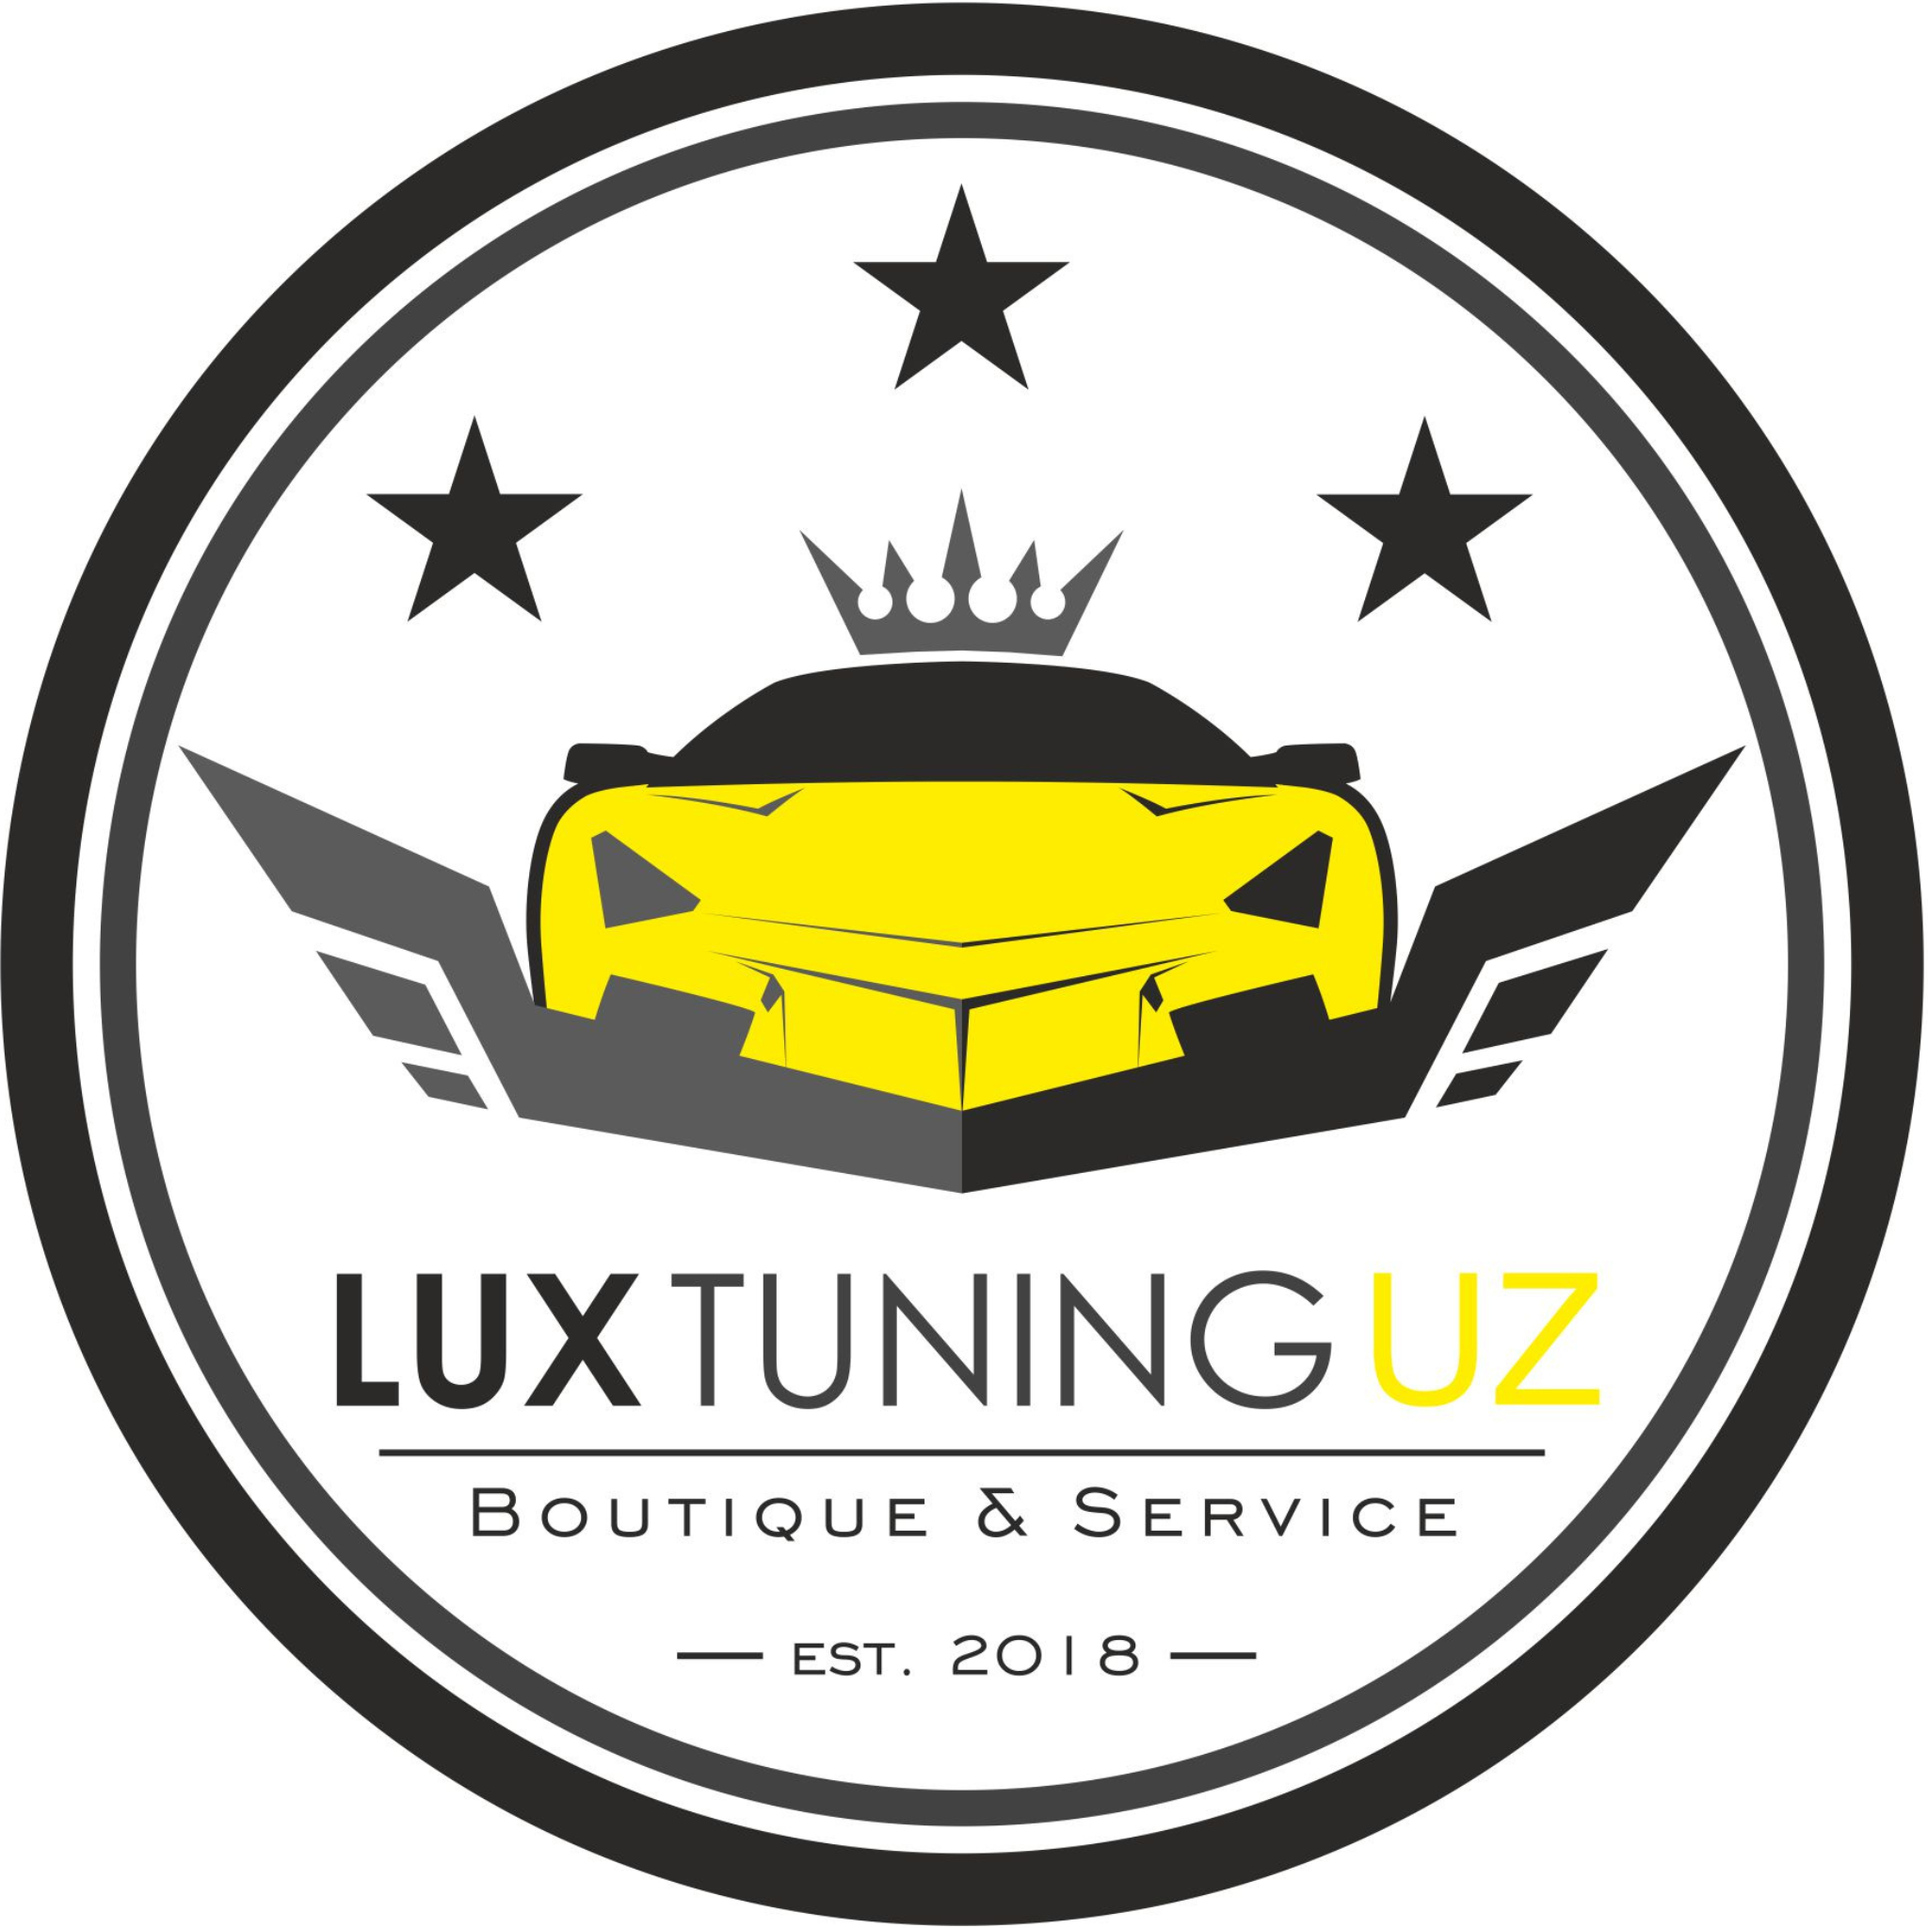
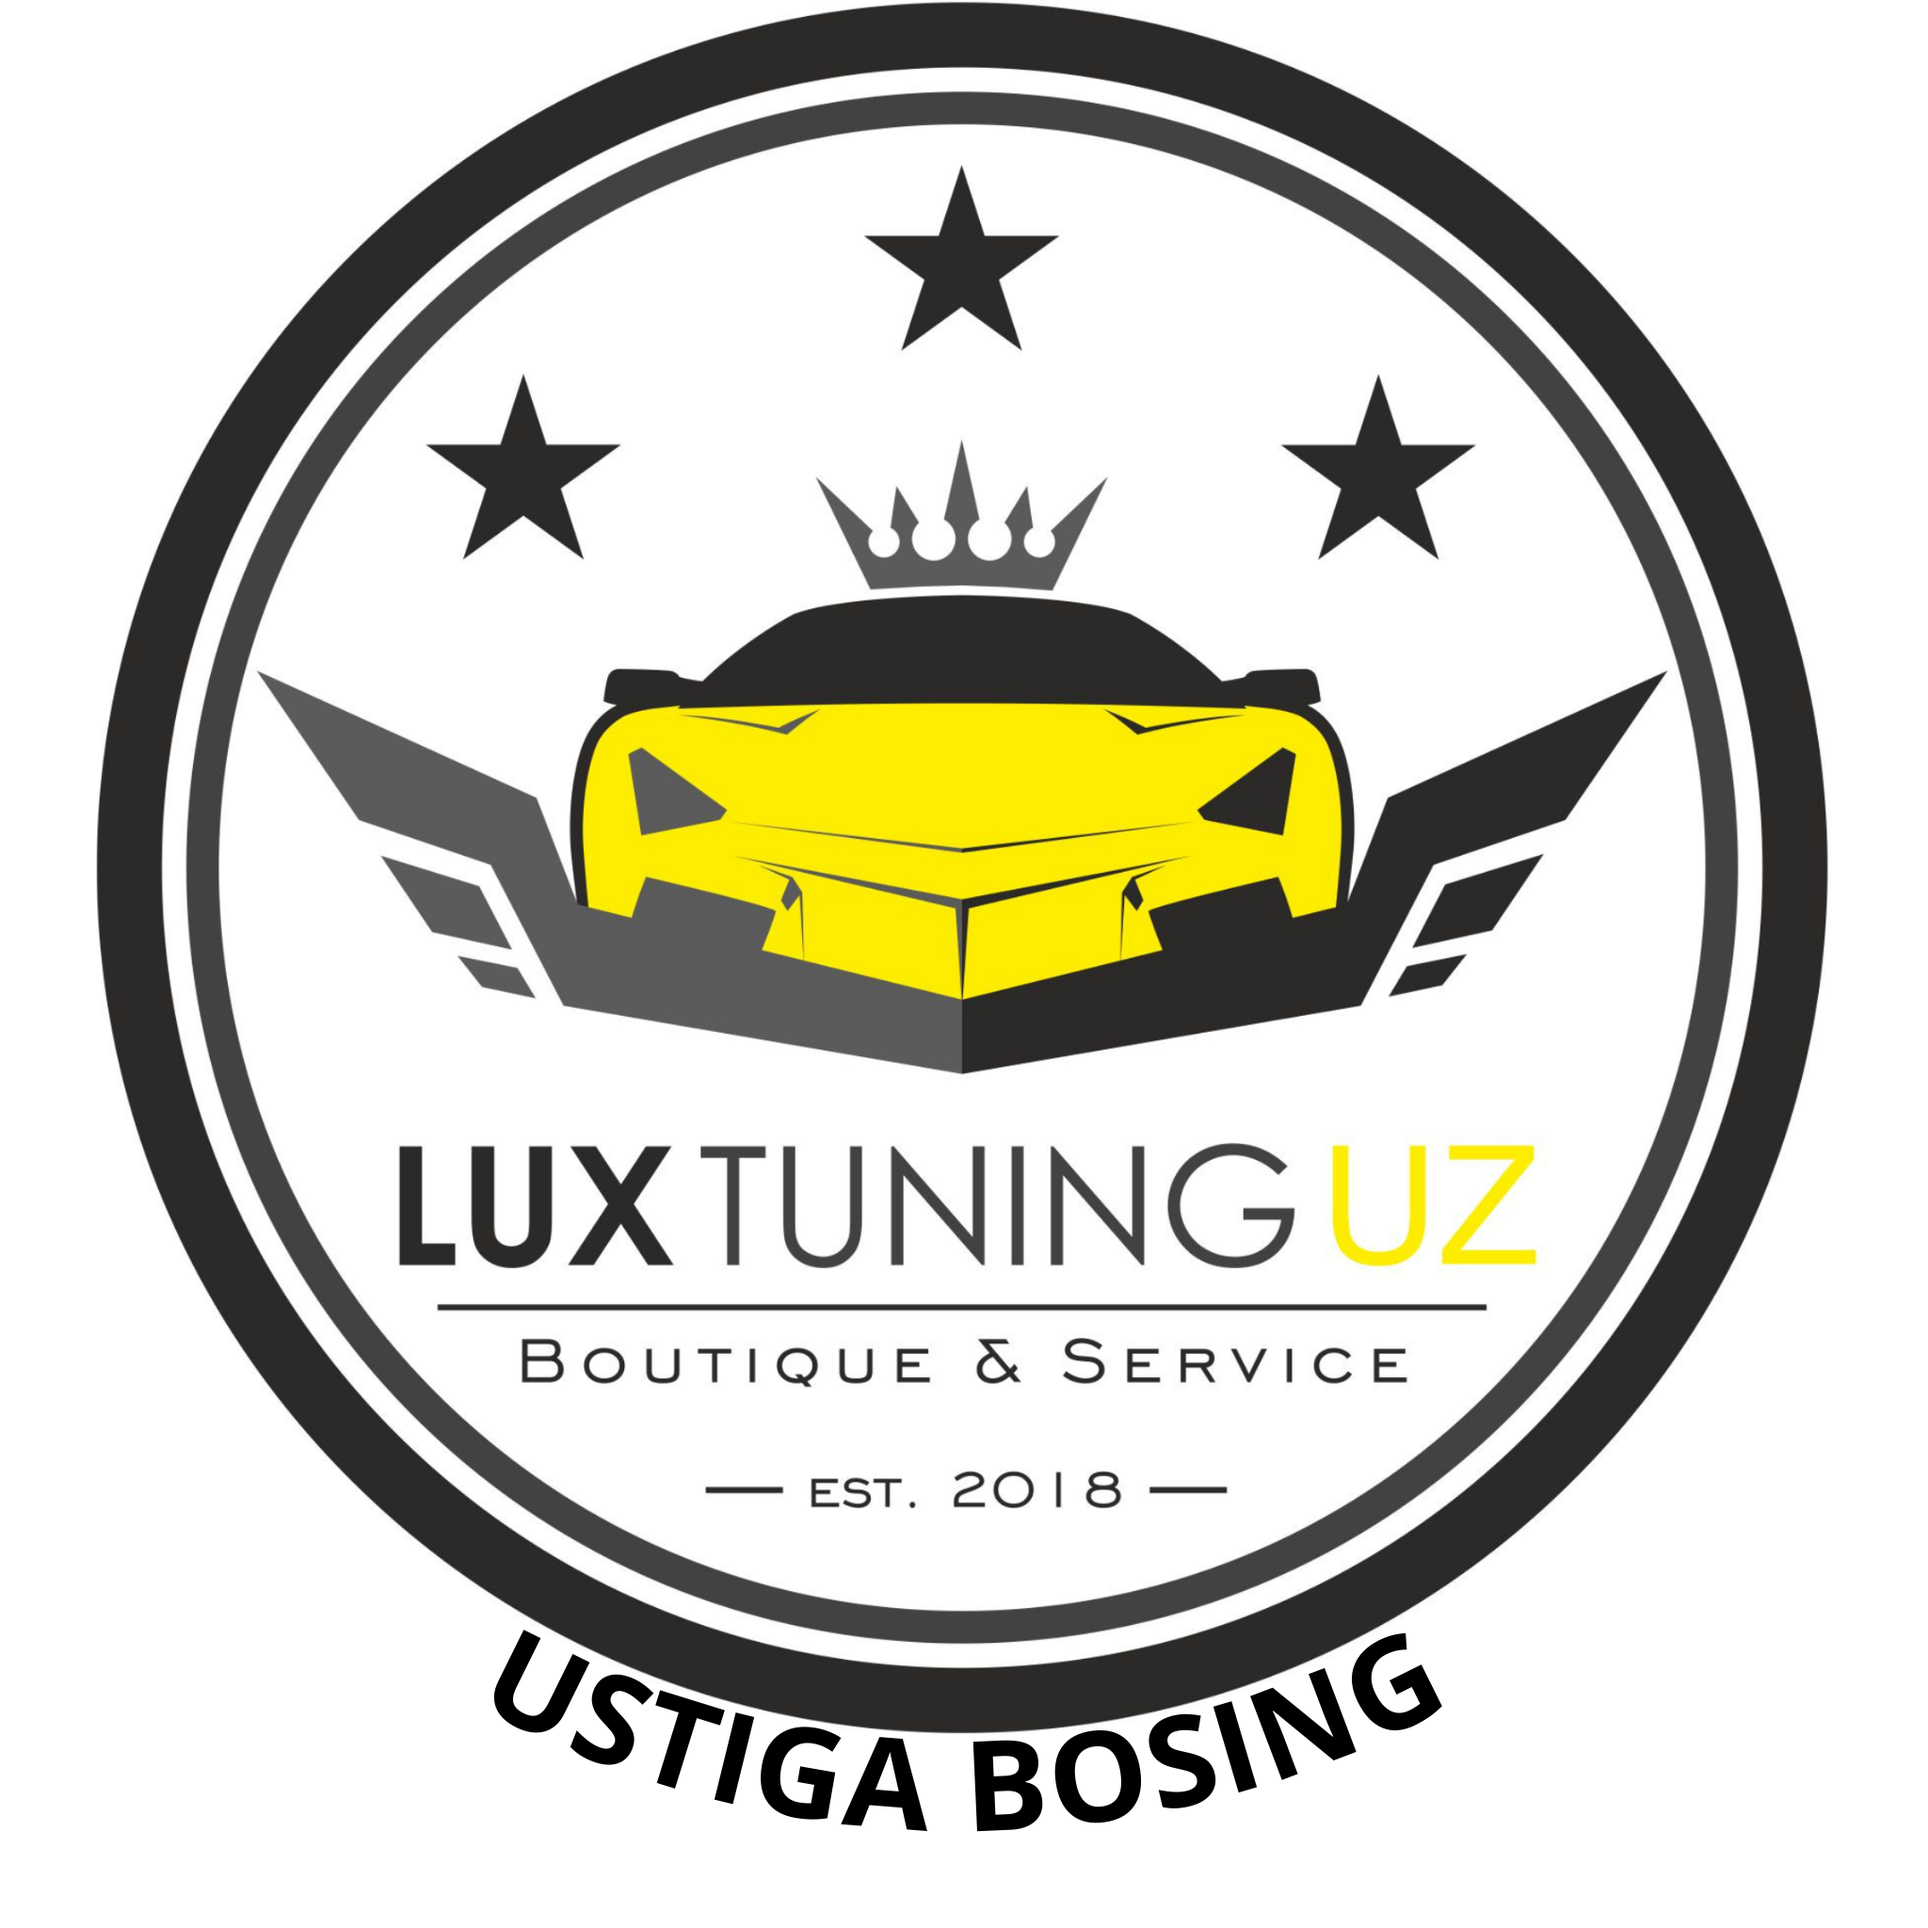
oxirgisi

diff --git a/style.css b/style.css
@@ -8,19 +8,6 @@ a{
   text-decoration: none;
 
 }
-.ustiga{
-  font-size: 20px;
-  position: absolute;
-  top: 300px;
-  font-weight: 700;
-  font-family: 'Courier New', Courier, monospace;
-}
-.soz{
-position: relative;
-  display: flex;
-  justify-content: center;
-  align-items: center;
-}
 
 .menu {
     

diff --git a/index.html b/index.html
@@ -29,9 +29,7 @@
 <meta name="theme-color" content="#ffffff">
 </head>
 <body>
-	<div class="soz">
-	<p class="ustiga" > Ustiga bosing</p>
-	</div>
+	
     <div class="container">
 		
 			<div class='menu'>
